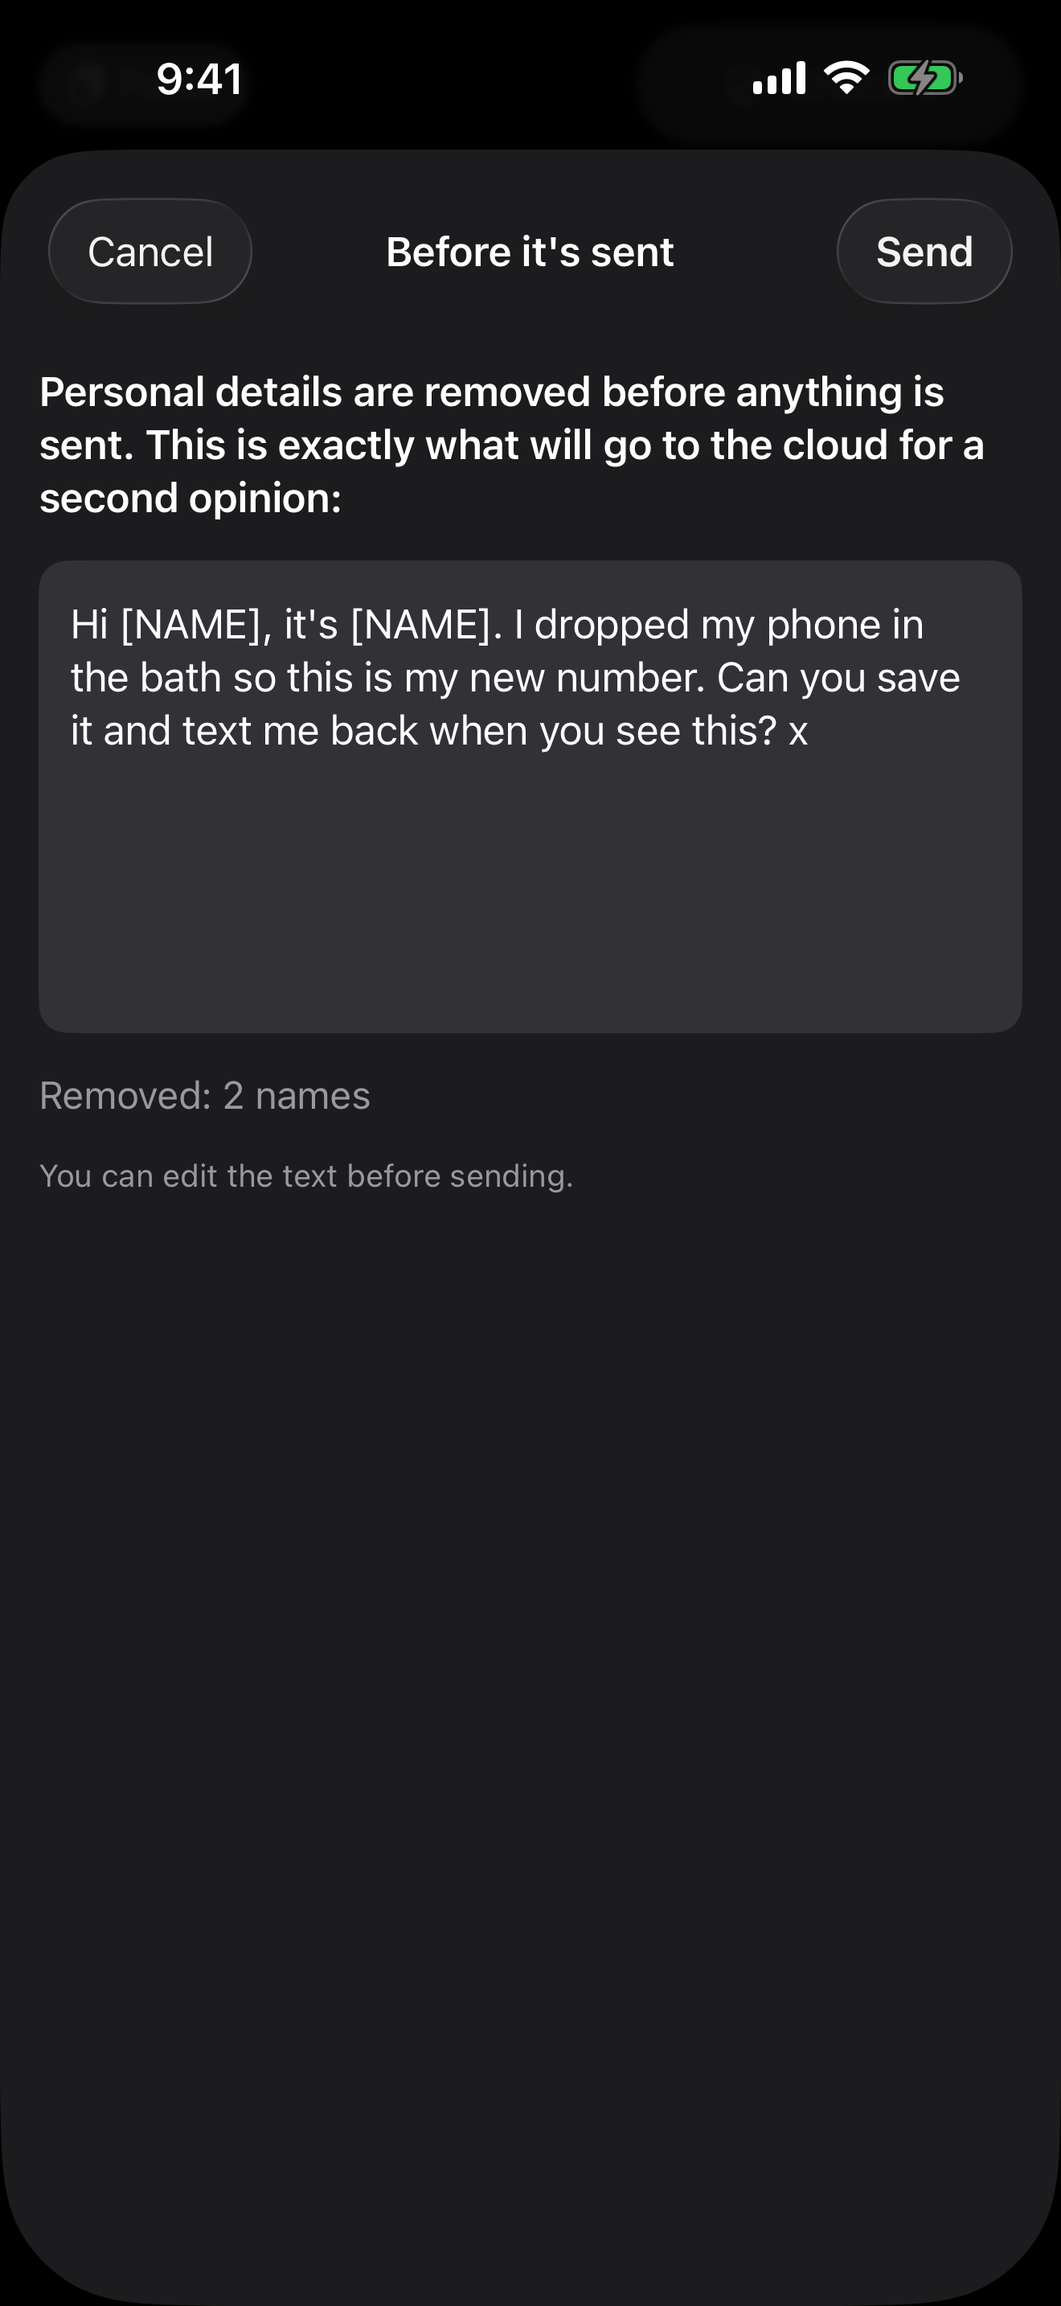
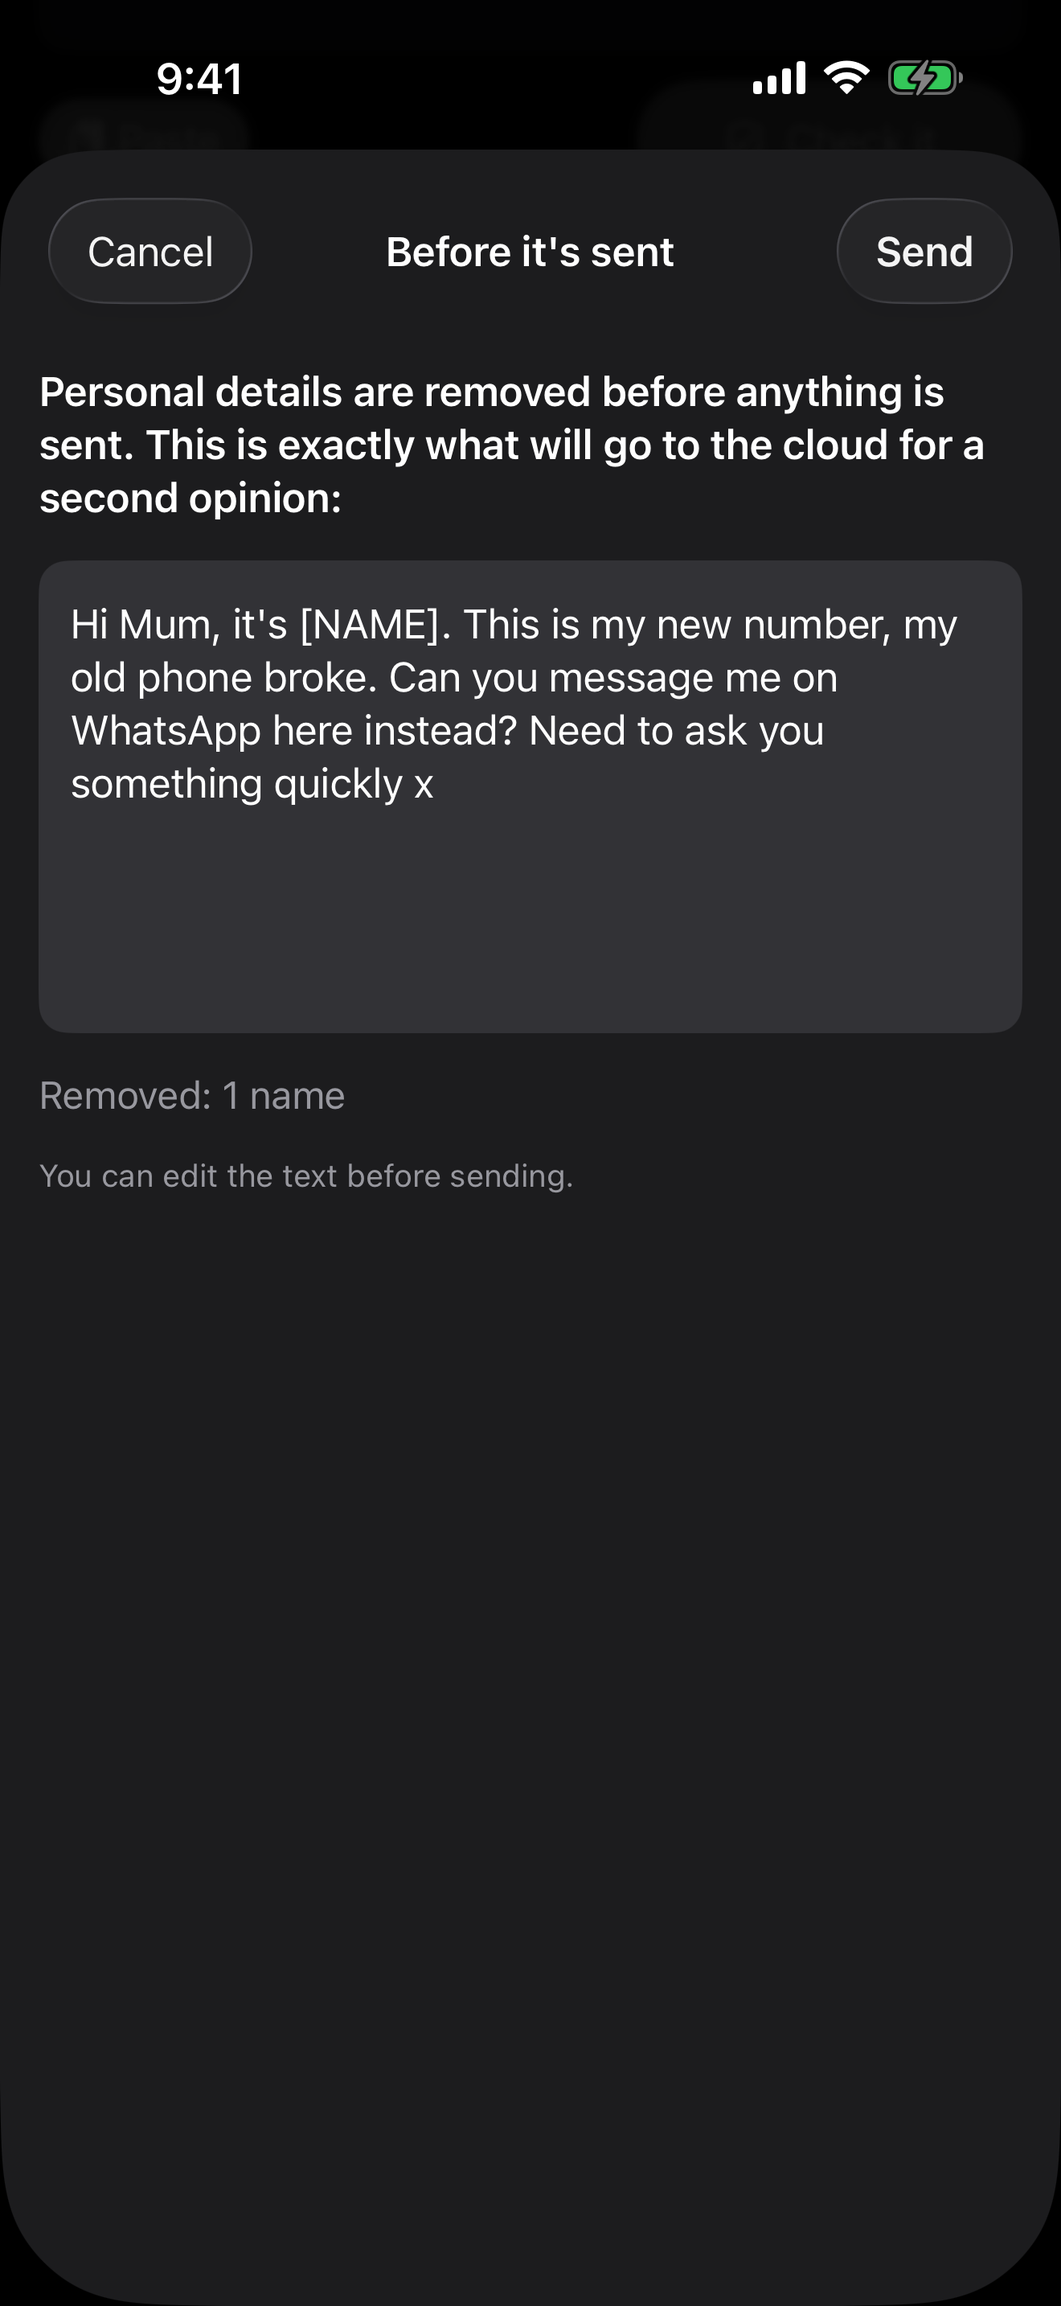
Fix copied example summaries and family words redacted as names
- Parser: a summary copied from a prompt example onto a message it doesn't fit is replaced with a fixed
  summary and the fixed steps; steps and reasons about codes are dropped when the message has no code.
- Privacy Shield: Mum, Dad and other family words are never replaced with [NAME] (greeting rule and name pass).
- Prompt text unchanged (checked byte for byte). 48 tests pass.
- Screenshot 4 retaken: 'Hi Mum, it's [NAME]'.

Changed region(s): [[0.0621, 0.2483, 0.9008, 0.3414], [0.2174, 0.4655, 0.3417, 0.4965]]

diff --git a/Packages/SmellTestCore/Tests/SmellTestCoreTests/VerdictParserTests.swift b/Packages/SmellTestCore/Tests/SmellTestCoreTests/VerdictParserTests.swift
@@ -124,4 +124,67 @@ struct VerdictParserTests {
         let r = try VerdictParser.parse(json, message: "Hi Mum, I dropped my phone, this is my new number")
         #expect(r.nextSteps == SafeSteps.steps(for: .notSure))
     }
+
+    /// Nov 17: a fake bank-login text came back with example 2's summary and code advice.
+    @Test func copiedExampleSummaryIsReplaced() throws {
+        let message = "BrightBank Alert: unusual sign-in detected on your account. Verify your identity now at brightbank-secure-login.net or your account will be locked today."
+        let json = """
+        {"verdict":"scam","scam_type":"bank_or_government_impersonation",
+         "summary":"This message tries to get a security code from you.",
+         "reasons":[{"quote":"Verify your identity now at brightbank-secure-login.net","why":"Pushes you to a link."},
+                    {"quote":"Your account will be locked today","why":"Threatens a problem to rush you."}],
+         "next_steps":["Don't send any codes to anyone.","Contact BrightBank using the phone number on your card or in its official app.","Block the sender and delete the message."]}
+        """
+        let r = try VerdictParser.parse(json, message: message)
+        #expect(r.summary == SafeSteps.summary(for: .scam))
+        #expect(r.nextSteps == SafeSteps.steps(for: .scam))
+        #expect(r.reasons.count == 2)
+    }
+
+    @Test func exampleSummaryIsKeptWhenItFits() throws {
+        let message = "Your account is locked. Reply with the code we sent to unlock it."
+        let json = """
+        {"verdict":"scam","scam_type":"bank_or_government_impersonation",
+         "summary":"This message tries to get a security code from you.",
+         "reasons":[{"quote":"Reply with the code we sent","why":"Asks you to share a code."}],
+         "next_steps":["Don't send the code to anyone.","Contact the company using its official app.","Block the sender."]}
+        """
+        let r = try VerdictParser.parse(json, message: message)
+        #expect(r.summary == "This message tries to get a security code from you.")
+        #expect(r.nextSteps[0] == "Don't send the code to anyone.")
+    }
+
+    @Test func codeStepIsSwappedWhenMessageHasNoCode() throws {
+        let message = "Pay the $1.99 redelivery fee at parcelpoint-redelivery.top today."
+        let json = """
+        {"verdict":"likely_scam","scam_type":"package_delivery",
+         "summary":"This message asks for a fee to deliver a package.",
+         "reasons":[{"quote":"Pay the $1.99 redelivery fee","why":"Asks for a fee."}],
+         "next_steps":["Don't pay the fee.","Never share a code or PIN.","Block the sender."]}
+        """
+        let r = try VerdictParser.parse(json, message: message)
+        #expect(r.summary == "This message asks for a fee to deliver a package.")
+        #expect(r.nextSteps[0] == "Don't pay the fee.")
+        #expect(!VerdictParser.mentionsCode(r.nextSteps[1]))
+        #expect(r.nextSteps[2] == "Block the sender.")
+    }
+
+    @Test func mentionsCodeIsWordBased() {
+        #expect(VerdictParser.mentionsCode("Send the code"))
+        #expect(VerdictParser.mentionsCode("your PIN"))
+        #expect(!VerdictParser.mentionsCode("scan the barcode"))
+        #expect(!VerdictParser.mentionsCode("pinned message"))
+    }
+
+    @Test func codeReasonIsDroppedWhenMessageHasNoCode() throws {
+        let message = "BrightBank Alert: unusual sign-in detected on your account. Verify your identity now at brightbank-secure-login.net or your account will be locked today."
+        let json = """
+        {"verdict":"scam","scam_type":"bank_or_government_impersonation","summary":"This message pushes you to a fake login page.",
+         "reasons":[{"quote":"Verify your identity now at brightbank-secure-login.net","why":"Asks you to share a code."},
+                    {"quote":"BrightBank Alert: unusual sign-in detected on your account.","why":"Threatens a problem to rush you."}],
+         "next_steps":["Don't tap the link.","Contact the bank using its official app.","Block the sender."]}
+        """
+        let r = try VerdictParser.parse(json, message: message)
+        #expect(r.reasons.map(\.why) == ["Threatens a problem to rush you."])
+    }
 }

diff --git a/Packages/SmellTestCore/Sources/SmellTestCore/VerdictParser.swift b/Packages/SmellTestCore/Sources/SmellTestCore/VerdictParser.swift
@@ -64,8 +64,12 @@ public enum VerdictParser {
         let scamTypeRaw = (raw.scam_type ?? "none").trimmingCharacters(in: .whitespaces).lowercased()
         guard let scamType = ScamType(rawValue: scamTypeRaw) else { throw .unknownScamType(scamTypeRaw) }
 
-        let summary = clean(raw.summary ?? "")
-        guard !summary.isEmpty else { throw .missingSummary }
+        let modelSummary = clean(raw.summary ?? "")
+        guard !modelSummary.isEmpty else { throw .missingSummary }
+        // A summary copied from a prompt example onto a message it doesn't fit is replaced with a
+        // fixed one, and so are the steps (they were copied along with it).
+        let copiedExample = copiedExampleSummary(modelSummary, message: message)
+        let summary = copiedExample ? SafeSteps.summary(for: verdict) : modelSummary
         // Never show a link, number or address the model made up.
         guard !ContactDetails.hasInvented(in: summary, message: message) else { throw .inventedContactDetails }
 
@@ -77,6 +81,8 @@ public enum VerdictParser {
             let why = clean((r.why ?? "").replacingOccurrences(of: #"\s*\((red flags?|flags?|scam types?|types?) \d+((,| and| or) ?\d+)*\)"#, with: "",
                                                                options: [.regularExpression, .caseInsensitive]))
             guard !quote.isEmpty, !why.isEmpty, containsQuote(quote, in: message) else { return nil }
+            // "Asks you to share a code" on a message with no code was copied from the prompt example.
+            guard !(mentionsCode(why) && !mentionsCode(message)) else { return nil }
             return Reason(quote: quote, why: why)
         }
         .prefix(maxReasons)
@@ -95,9 +101,17 @@ public enum VerdictParser {
         // message (that could be the scammer's). Such a step is swapped for a fixed, human-written one.
         // "Not sure" always gets the fixed steps: the model can't tell whether the message is real,
         // so its advice ("call her back") can't be trusted either.
-        let steps = verdict == .notSure
-            ? SafeSteps.steps(for: .notSure)
-            : SafeSteps.replacingContactDetails(in: modelSteps, verdict: verdict)
+        // A warning step about codes, when the message never mentions one, was copied from the
+        // prompt example too, so it's swapped the same way.
+        let steps: [String]
+        if verdict == .notSure || copiedExample {
+            steps = SafeSteps.steps(for: verdict)
+        } else {
+            let offTopic: (String) -> Bool = { step in
+                verdict.isWarning && mentionsCode(step) && !mentionsCode(message)
+            }
+            steps = SafeSteps.replacing(in: modelSteps, verdict: verdict) { ContactDetails.contains($0) || offTopic($0) }
+        }
 
         return CheckResult(
             verdict: verdict,
@@ -132,6 +146,22 @@ public enum VerdictParser {
             i = text.index(after: i)
         }
         return nil
+    }
+
+    /// True when the summary is (nearly word for word) a prompt example's summary and the message
+    /// has none of the words that would make that summary fit.
+    static func copiedExampleSummary(_ summary: String, message: String) -> Bool {
+        let s = normalize(summary)
+        let m = message.lowercased()
+        return VerdictPrompt.exampleSummaries.contains { example in
+            normalize(example.summary) == s && !example.fitsIfMessageHas.contains { m.contains($0) }
+        }
+    }
+
+    /// "code", "PIN", "passcode" or "OTP" as a word (not "barcode" or "zip code"-style substrings
+    /// inside other words).
+    static func mentionsCode(_ text: String) -> Bool {
+        text.range(of: #"\b(codes?|pins?|passcodes?|otps?)\b"#, options: [.regularExpression, .caseInsensitive]) != nil
     }
 
     static func clean(_ s: String) -> String {

diff --git a/Packages/SmellTestCore/Sources/SmellTestCore/PrivacyShield.swift b/Packages/SmellTestCore/Sources/SmellTestCore/PrivacyShield.swift
@@ -51,14 +51,29 @@ public enum PrivacyShield {
         return ApprovedText(trimmed)
     }
 
+    /// Family and role words. They don't identify anyone, and they're often the scam signal itself
+    /// ("Hi Mum, new number"), so they're never replaced even if the name pass lists them.
+    static let relationshipWords: Set<String> = [
+        "mum", "mom", "mummy", "mommy", "mother", "ma", "mama", "dad", "daddy", "father", "pa", "papa",
+        "nan", "nana", "nanna", "gran", "granny", "grandma", "grandmother", "grandpa", "grandad", "granddad",
+        "grandfather", "aunt", "auntie", "aunty", "uncle", "son", "daughter", "sis", "sister", "bro", "brother",
+        "babe", "baby", "honey", "darling", "love", "sweetheart", "sir", "madam", "dear", "cousin",
+    ]
+
+    static func isRelationshipWord(_ word: some StringProtocol) -> Bool {
+        relationshipWords.contains(word.lowercased().trimmingCharacters(in: .punctuationCharacters))
+    }
+
     /// Replaces whole-word occurrences of each name (and each part of a multi-word name).
+    /// Family and role words are kept: "Aunt Rosa" becomes "Aunt [NAME]".
     static func replaceNames(in text: String, names: [String]) -> (text: String, count: Int) {
         var parts = Set<String>()
         for name in names {
             let cleaned = name.trimmingCharacters(in: .whitespacesAndNewlines.union(.punctuationCharacters))
             guard cleaned.count >= 2 else { continue }
-            parts.insert(cleaned)
-            for piece in cleaned.split(separator: " ") where piece.count >= 2 {
+            let pieces = cleaned.split(separator: " ")
+            if !pieces.contains(where: isRelationshipWord) { parts.insert(cleaned) }
+            for piece in pieces where piece.count >= 2 && !isRelationshipWord(piece) {
                 parts.insert(String(piece))
             }
         }
@@ -83,7 +98,8 @@ public enum PrivacyShield {
     public static func namePrompt(for text: String) -> String {
         """
         List every personal name of a real person in the message below (first names, last names, \
-        nicknames). Do not list company names, product names or places. Answer with only a JSON \
+        nicknames). Do not list company names, product names, places, or family words like Mum, Dad \
+        or Grandma. Answer with only a JSON \
         array of strings, like ["Ana", "Mr. Lee"]. If there are none, answer [].
 
         <<<MESSAGE

diff --git a/Packages/SmellTestCore/Sources/SmellTestCore/VerdictPrompt.swift b/Packages/SmellTestCore/Sources/SmellTestCore/VerdictPrompt.swift
@@ -22,6 +22,16 @@ public enum VerdictPrompt {
         return estimatedTokens(message) <= maxMessageTokens && total <= onDeviceWindow
     }
 
+    /// Summaries from the worked examples below, each with words a message needs before that summary
+    /// can fit it. A small model sometimes copies an example's summary onto an unrelated message
+    /// (Nov 17: a fake bank-login link got "tries to get a security code"); the parser catches that.
+    static let exampleOneSummary = "This looks like an ordinary reminder."
+    static let exampleTwoSummary = "This message tries to get a security code from you."
+    static let exampleSummaries: [(summary: String, fitsIfMessageHas: [String])] = [
+        (exampleOneSummary, ["remind", "due", "renew", "appointment"]),
+        (exampleTwoSummary, ["code", "pin", "passcode", "otp"]),
+    ]
+
     public static func instructions(currentPatterns: [String] = []) -> String {
         let types = ScamType.allCases.map(\.rawValue).joined(separator: ", ")
         var text = """
@@ -58,13 +68,13 @@ public enum VerdictPrompt {
         With "no_red_flags", "reasons" is an empty list.
 
         Example 1 message: Your library book is due Friday. Renew online or at any branch.
-        Example 1 answer: {"verdict":"no_red_flags","scam_type":"none","summary":"This looks like an ordinary reminder.",\
+        Example 1 answer: {"verdict":"no_red_flags","scam_type":"none","summary":"\(exampleOneSummary)",\
         "reasons":[],"next_steps":["If a later message asks for money or details, check it again.",\
         "If anything feels off, contact the sender using a number you already know.","Never share codes or passwords with anyone who contacts you."]}
 
         Example 2 message: Your account is locked. Send the 6-digit code we texted you to unlock it today.
         Example 2 answer: {"verdict":"scam","scam_type":"bank_or_government_impersonation",\
-        "summary":"This message tries to get a security code from you.",\
+        "summary":"\(exampleTwoSummary)",\
         "reasons":[{"quote":"Send the 6-digit code","why":"Asks you to share a code (red flag 2)."},\
         {"quote":"Your account is locked","why":"Threatens a problem to rush you (red flag 4)."}],\
         "next_steps":["Don't send the code to anyone.","Contact the company using the number on your card or in its official app.","Block the sender and delete the message."]}

diff --git a/Packages/SmellTestCore/Sources/SmellTestCore/SafeSteps.swift b/Packages/SmellTestCore/Sources/SmellTestCore/SafeSteps.swift
@@ -54,10 +54,25 @@ public enum SafeSteps {
         }
     }
 
+    /// Fixed summaries, used when the model's summary can't be trusted (it copied a prompt example).
+    public static func summary(for verdict: Verdict) -> String {
+        switch verdict {
+        case .scam: "This message shows several warning signs of a scam."
+        case .likelyScam: "This message shows a warning sign of a scam."
+        case .notSure: "Something about this message is a little unusual."
+        case .noRedFlags: "We didn't find any of the usual warning signs."
+        }
+    }
+
     static func replacingContactDetails(in modelSteps: [String], verdict: Verdict) -> [String] {
+        replacing(in: modelSteps, verdict: verdict, where: ContactDetails.contains)
+    }
+
+    /// Swaps each model step that matches `shouldReplace` for a fixed step not already shown.
+    static func replacing(in modelSteps: [String], verdict: Verdict, where shouldReplace: (String) -> Bool) -> [String] {
         var spares = steps(for: verdict).filter { !modelSteps.contains($0) }
         return modelSteps.map { step in
-            guard ContactDetails.contains(step) else { return step }
+            guard shouldReplace(step) else { return step }
             return spares.isEmpty ? steps(for: verdict)[0] : spares.removeFirst()
         }
     }

diff --git a/Packages/SmellTestCore/Sources/SmellTestCore/Redactor.swift b/Packages/SmellTestCore/Sources/SmellTestCore/Redactor.swift
@@ -59,8 +59,10 @@ public enum Redactor {
         apply(#"\b(?=[A-Z0-9]*\d[A-Z0-9]*\d)(?=[A-Z0-9]*[A-Z])[A-Z0-9]{6,24}\b"#, .code)
         // Standalone 4–8 digit numbers (codes, PINs, ZIPs), but not money amounts.
         apply(#"(?<![\w$€£.,])\d{4,8}(?![\w%]|[.,]\d)"#, .code)
-        // A name right after a greeting: "Hi Margaret," / "Dear Mr. Lopez".
-        apply(#"\b(Dear|Hi|Hello|Hey)(\s+(?:Mr\.?|Mrs\.?|Ms\.?|Dr\.?)?\s*)(?!(?:Mr|Mrs|Ms|Dr)\b)[A-Z][a-z'\-]+(?:\s+[A-Z][a-z'\-]+)?"#,
+        // A name right after a greeting: "Hi Margaret," / "Dear Mr. Lopez". Not a family word:
+        // "Hi Mum" stays, because it identifies no one and is often the scam signal itself.
+        let family = PrivacyShield.relationshipWords.sorted().joined(separator: "|")
+        apply(#"\b(Dear|Hi|Hello|Hey)(\s+(?:Mr\.?|Mrs\.?|Ms\.?|Dr\.?)?\s*)(?!(?:Mr|Mrs|Ms|Dr)\b)(?!(?i:"# + family + #")\b)[A-Z][a-z'\-]+(?:\s+[A-Z][a-z'\-]+)?"#,
               options: [], .name, template: "$1$2[NAME]")
 
         return Result(text: text, counts: counts)

diff --git a/Packages/SmellTestCore/Tests/SmellTestCoreTests/RedactorLeakTests.swift b/Packages/SmellTestCore/Tests/SmellTestCoreTests/RedactorLeakTests.swift
@@ -74,4 +74,12 @@ extension RedactorLeakTests {
         #expect(twice.text == once)
         #expect(twice.totalRedactions == 0, "Second pass changed: \(twice.text)")
     }
+
+    /// Nov 17: the greeting rule turned "Hi Mum" into "Hi [NAME]".
+    @Test func greetingKeepsFamilyWords() {
+        #expect(Redactor.redact("Hi Mum, it's me").text == "Hi Mum, it's me")
+        #expect(Redactor.redact("Hey Dad, new number").text == "Hey Dad, new number")
+        #expect(Redactor.redact("Hi Margaret, it's me").text == "Hi [NAME], it's me")
+        #expect(Redactor.redact("Dear Mr. Lopez, hello").text == "Dear Mr. [NAME], hello")
+    }
 }

diff --git a/Packages/SmellTestCore/Tests/SmellTestCoreTests/PrivacyShieldTests.swift b/Packages/SmellTestCore/Tests/SmellTestCoreTests/PrivacyShieldTests.swift
@@ -53,4 +53,12 @@ struct PrivacyShieldTests {
         #expect(PrivacyShield.parseNames("[]") == [])
         #expect(PrivacyShield.parseNames("no names") == nil)
     }
+
+    /// Nov 17: "Hi Mum" became "Hi [NAME]", hiding the scam signal from the second opinion.
+    @Test func familyWordsAreKept() {
+        let text = "Hi Mum, it's Jess. Aunt Rosa says hi. Dear John, call Dad."
+        let out = PrivacyShield.replaceNames(in: text, names: ["Mum", "Jess", "Aunt Rosa", "Dear John", "Dad"])
+        #expect(out.text == "Hi Mum, it's [NAME]. Aunt [NAME] says hi. Dear [NAME], call Dad.")
+        #expect(out.count == 3)
+    }
 }

diff --git a/docs/DESIGN.md b/docs/DESIGN.md
@@ -103,3 +103,13 @@ message is rejected. (The first prompt version invented a bank website in a next
 2. An honest "Not sure".
 3. A redacted second opinion from the cloud, with the preview and consent.
 4. A practical next step.
+
+**Copied examples and family words (Nov 17).**
+- The on-device model sometimes copies a worked example from the prompt onto an unrelated message (a fake
+  bank-login link came back as "tries to get a security code"). If the summary is an example's summary and the
+  message has none of the words that would make it fit, the app shows a fixed summary and the fixed steps for
+  that verdict. A step or reason about codes is dropped when the message never mentions a code. The prompt text
+  itself is unchanged.
+- Family and role words (Mum, Dad, Grandma...) are never replaced with [NAME], by either the greeting rule or the
+  on-device name pass. They identify no one and are often the scam signal itself ("Hi Mum, new number").
+
